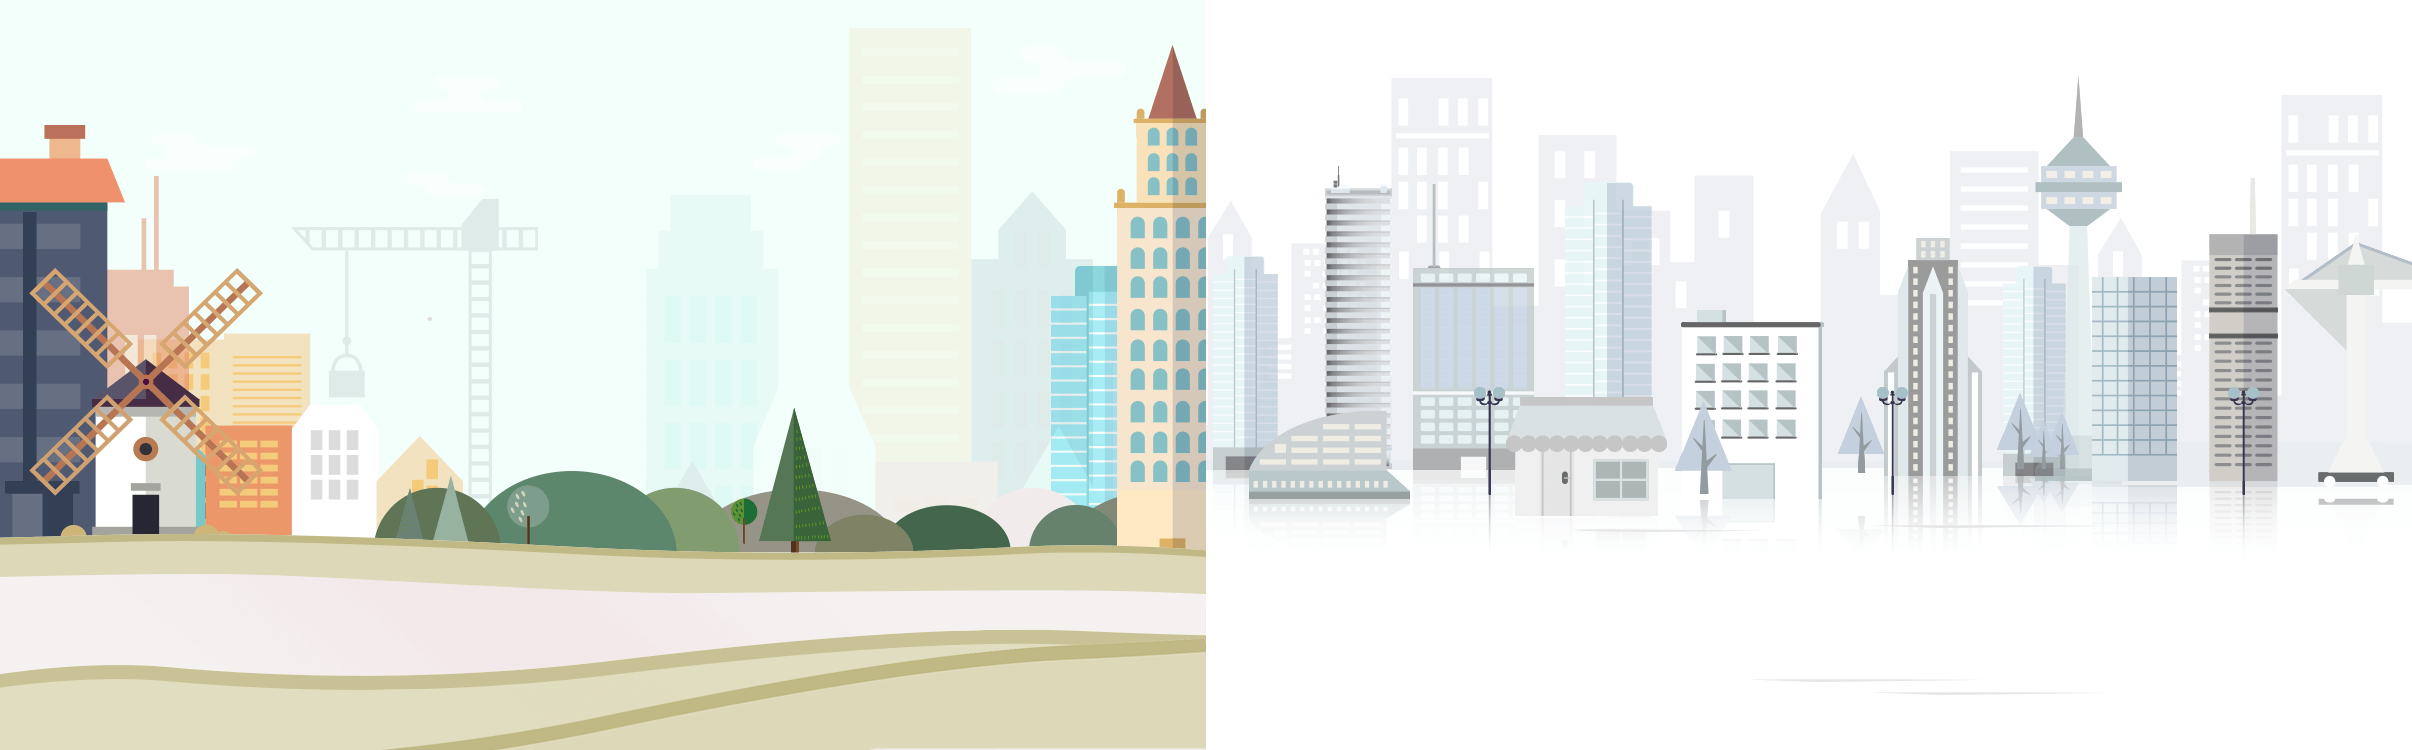
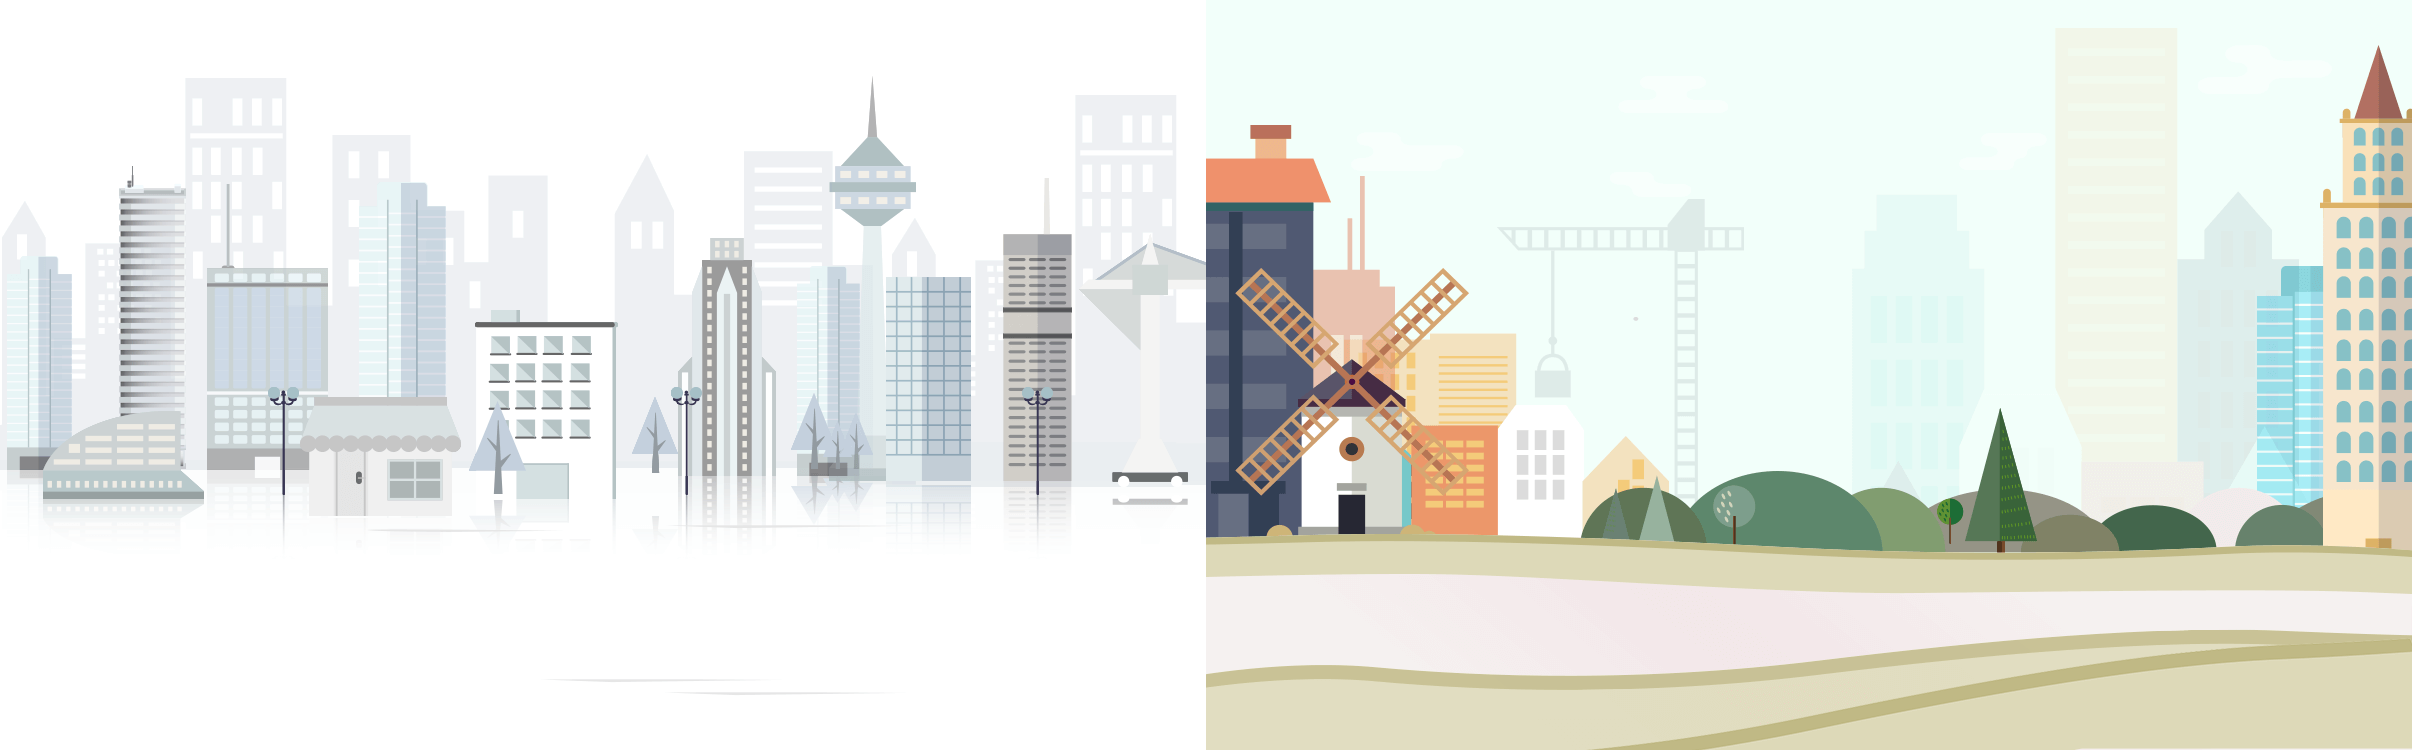
fix the front-ground

diff --git a/js/main.js b/js/main.js
@@ -163,6 +163,7 @@ window.onload=function(){
     loader.addEventListener('progress', handleFileProgress);//加载完成 调用handleFileProgress函数
     loader.loadManifest(manifest);
     // $('.timer').hide();
+
 };
 function handleFileProgress(){//加载中函数
     var percent=loader.progress*100|0+'%';
@@ -173,13 +174,13 @@ function handleFileProgress(){//加载中函数
 //first load function
 function handleComplete(){
     // 显示下一张图
-    $('#pageLoad').hide();
-
-    $('#page1').show();
-     playStart();
-    bubble();
+    playStart();
+    frontScene1In();
     Scene1In();
+    bubble();
     train1In();
+    $('#pageLoad').hide();
+    $('#page1').show();
 
 
 }
@@ -198,6 +199,7 @@ $(function () {
         /*console.log()*/
         playRun();
         Scene1Out();
+        frontScene1Out();
         train1Out();
 
     });
@@ -459,7 +461,9 @@ function trainIn(stage,Title1,Title2,Title1_r,Title2_r) {
 // 火车page1
 var  stage1=new createjs.Stage("canvas1");
 var  stage_bg1= new createjs.Stage('bg1');
+var  stage_fbg1= new createjs.Stage('fbg1');
 var  background1 = new createjs.Bitmap('./images/page1/bgt.png');
+var  frontgrond1 = new createjs.Bitmap('./images/page1/fbgt.png');
 
 function train1In() {
     stage1.canvas.width=h;
@@ -487,22 +491,45 @@ function train1In() {
 }
 
 function Scene1In() {
+    console.log("背景一创建");
     stage_bg1.canvas.width=h;
     stage_bg1.canvas.height=w;
     background1.scaleX=bgScaleY;
     background1.scaleY=scale;
-    background1.x=0;
+    background1.x=-h;
     background1.y=0;
-    stage1.addChild(background1);
+    stage_bg1.addChild(background1);
+
+    createjs.Ticker.setFPS(60);
+    createjs.Ticker.on('tick',stage_bg1);
 }
 
 function Scene1Out() {
-    createjs.Ticker.setFPS(60);
-    createjs.Ticker.on('tick',stage_bg1);
     createjs.Tween.get(background1, {loop: false})
-        .to({x: -h}, 8000, createjs.Ease.getPowInOut(4)).call(handleComplete);
+        .to({x: 0}, 8000, createjs.Ease.getPowInOut(4)).call(handleComplete);
     function handleComplete() {
-       /* $("#hint").show();*/
+        /* $("#hint").show();*/
+    }
+}
+
+function frontScene1In() {
+    console.log("前景一创建");
+    stage_fbg1.canvas.width=h;
+    stage_fbg1.canvas.height=w;
+    frontgrond1.scaleX=bgScaleY;
+    frontgrond1.scaleY=scale;
+    frontgrond1.x=-h;
+    frontgrond1.y=0;
+    stage_fbg1.addChild(frontgrond1);
+    createjs.Ticker.setFPS(60);
+    createjs.Ticker.on('tick',stage_fbg1);
+}
+
+function frontScene1Out() {
+    createjs.Tween.get(frontgrond1, {loop: false})
+        .to({x: 0}, 8000, createjs.Ease.getPowInOut(4)).call(handleComplete);
+    function handleComplete() {
+        /* $("#hint").show();*/
     }
 }
 

diff --git a/css/public.css b/css/public.css
@@ -55,12 +55,7 @@ body,html{
     height: 100%;
     overflow:hidden;
 }
-.bg{
-    /*width: 100%;*/
-    /*height: 100%;*/
-    /*overflow:hidden;*/
-    position: fixed;
-}
+
 .lock{
     width:100%;
     height:100%;
@@ -121,16 +116,17 @@ body,html{
 
 /*开始页面*/
 .fbg{
-    width: 100%;
+    /*width: 100%;
     height: 100%;
-    overflow:hidden;
+    overflow:hidden;*/
     float: left;
     position: fixed;
 
 }
 .bg1{
-    /*background: url("../images/page1/bg.png") 0 0 no-repeat;
-    background-size: 100% 100%;*/
+    width: 100%;
+    height:100%;
+    position: fixed;
     z-index: 11;
 }
 .train1{
@@ -145,18 +141,13 @@ body,html{
     z-index: 13;
 }
 
-/*#bubble{
-    top:0;
-    left: 0;
-}
-#snow{
-    z-index: 15;
-}*/
-
 .fbg1{
-    background: url("../images/page1/fbg.png") 0 0 no-repeat;
-    background-size: 100% 100%;
-    z-index: 16;
+   /* background: url("../images/page1/fbg.png") 0 0 no-repeat;
+    background-size: 100% 100%;*/
+    width: 100%;
+    height:100%;
+    position: fixed;
+    z-index: 14;
 }
 .floatButton{
     width: 100%;
@@ -164,7 +155,7 @@ body,html{
     position:fixed;
     text-align: center;
     top: 21vh;
-    z-index: 19;
+    z-index: 15;
 }
 .floatButton img{
     width: 20vw;
@@ -176,7 +167,7 @@ body,html{
     position: fixed;
     text-align: center;
     top: 6vh;
-    z-index: 19;
+    z-index: 15;
 }
 .floatTitle img{
     width: 50vw;
@@ -188,7 +179,7 @@ body,html{
     position:fixed;
     background: url("../images/page1/hint.png") 0 0 no-repeat;
     background-size: 100% 100%;
-    z-index: 20;
+    z-index: 16;
 }
 
 .keys{

diff --git a/index.html b/index.html
@@ -46,18 +46,12 @@
         <!--static effect-->
         <div class="effect animEff1">
             <canvas id="bubble"></canvas>
-            <canvas class="none" id="snow"></canvas>
+            <canvas id="snow"></canvas>
         </div>
-
-
-
-
-
         <!--front-page-->
         <p class="fbg fbg1">
             <canvas id="fbg1"></canvas>
         </p>
-
         <!--page1 float-->
         <div class="page1float">
             <div class="floatTitle none" id="title">
@@ -115,7 +109,7 @@
                 <p id="key25_r" class="right"></p>
                 <p id="key25_w" class="wrong"></p>
             </li>
-            <li id="key26"  data-choice="6">
+            <!--<li id="key26"  data-choice="6">
                 <a><img src="images/page2/fa7.png"></a>
                 <p id="key26_r" class="right"></p>
                 <p id="key26_w" class="wrong"></p>
@@ -134,7 +128,7 @@
                 <a><img src="images/page2/fa10.png"></a>
                 <p id="key29_r" class="right"></p>
                 <p id="key29_w" class="wrong"></p>
-            </li>
+            </li>-->
 
         </ul>
     </div>
